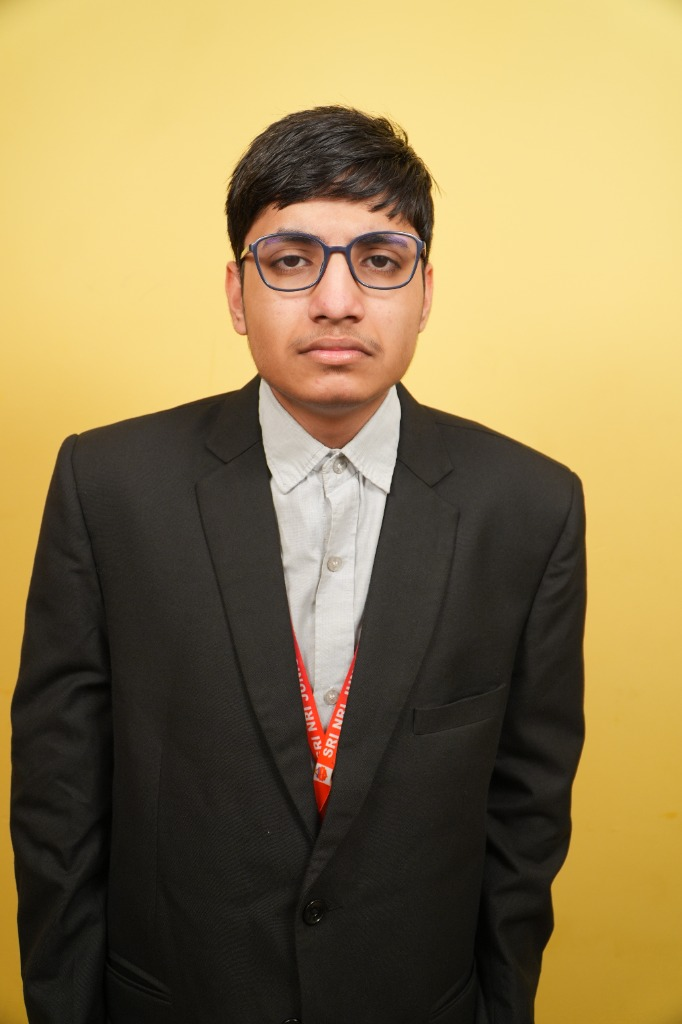
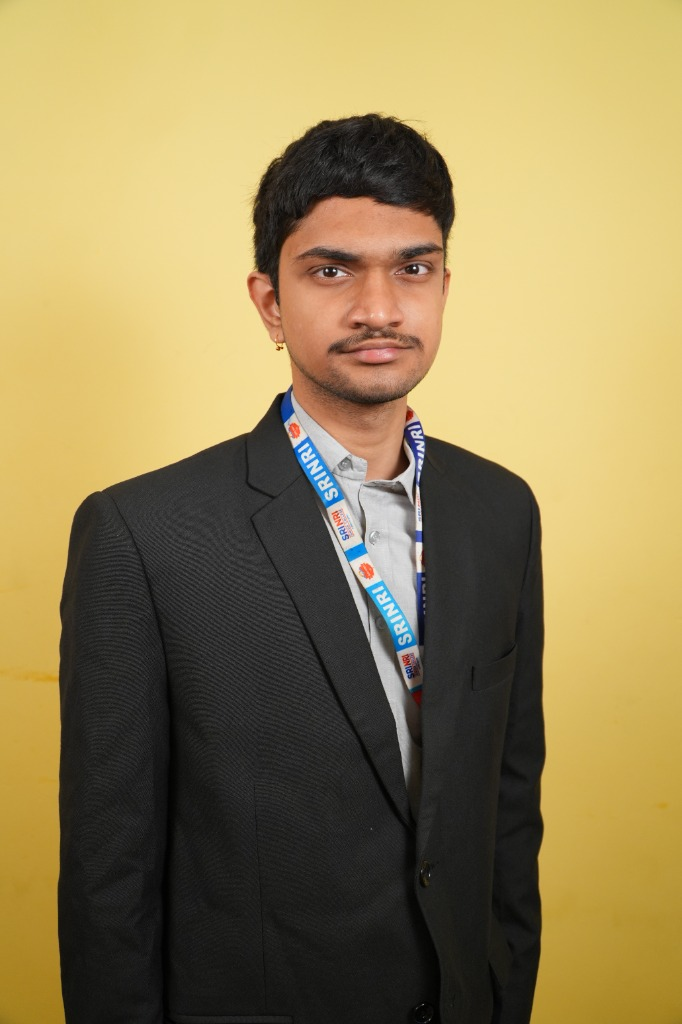
Add full set of student topper photos to RESULTS 2026 section across all streams

diff --git a/templates/landing.html b/templates/landing.html
@@ -1080,7 +1080,11 @@
     { name:"Priyanka", stream:"SR BiPC", score:"982/1000", photo:"{% static 'images/toppers/topper1.jpg' %}", color:"linear-gradient(135deg,#FF6A3D,#FF3D81)", init:"PR" },
     { name:"V. Karthik", stream:"SR MPC", score:"976/1000", photo:"{% static 'images/toppers/topper2.jpg' %}", color:"linear-gradient(135deg,#22C77C,#7B5CFF)", init:"VK" },
     { name:"S. Nikhita", stream:"JR MPC", score:"466/470", photo:"{% static 'images/toppers/topper3.jpg' %}", color:"linear-gradient(135deg,#7B5CFF,#FF3D81)", init:"SN" },
-    { name:"K. Anirudh", stream:"SR MEC", score:"968/1000", photo:"{% static 'images/toppers/topper4.jpg' %}", color:"linear-gradient(135deg,#FF3D81,#FF6A3D)", init:"KA" }
+    { name:"K. Anirudh", stream:"SR MEC", score:"968/1000", photo:"{% static 'images/toppers/topper4.jpg' %}", color:"linear-gradient(135deg,#FF3D81,#FF6A3D)", init:"KA" },
+    { name:"R. Akhil", stream:"JR CEC", score:"485/500", photo:"{% static 'images/toppers/topper5.jpg' %}", color:"linear-gradient(135deg,#7B5CFF,#FF6A3D)", init:"RA" },
+    { name:"T. Divya", stream:"JR BiPC", score:"438/440", photo:"{% static 'images/toppers/topper6.jpg' %}", color:"linear-gradient(135deg,#FF6A3D,#22C77C)", init:"TD" },
+    { name:"M. Yashwanth", stream:"SR CEC", score:"959/1000", photo:"{% static 'images/toppers/topper7.jpg' %}", color:"linear-gradient(135deg,#FF3D81,#7B5CFF)", init:"MY" },
+    { name:"P. Deepak", stream:"JR MEC", score:"473/500", photo:"{% static 'images/toppers/topper8.jpg' %}", color:"linear-gradient(135deg,#22C77C,#FF3D81)", init:"PD" }
   ];
   const toppersGrid = document.getElementById('toppersGrid');
   toppers.forEach((t, i)=>{
